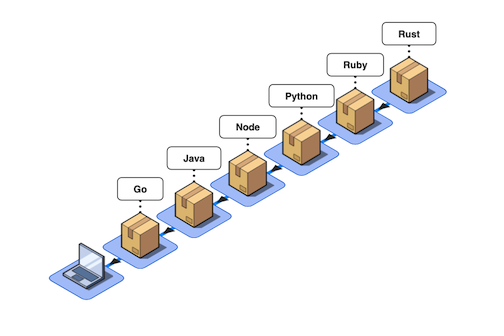
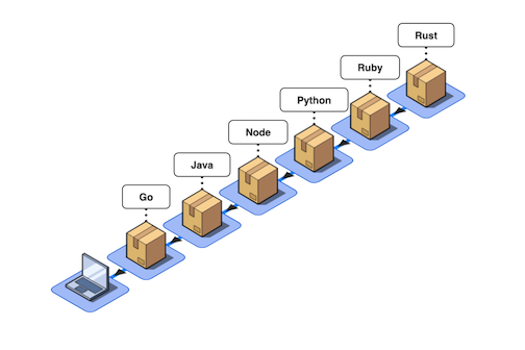
updated image alignment

diff --git a/README.md b/README.md
@@ -83,7 +83,11 @@
 <!-- ABOUT THE PROJECT -->
 ## About The Project
 
-[![Product Name Screen Shot][product-screenshot]](https://example.com)
+<div align="center">
+  <a href="https://github.com/certifiedcloudarchitect/macos-config">
+    <img src="images/screenshot.png" alt="macos-config" width="525" height="350">
+  </a>
+</div>
 
 This project was developed inorder to help expedite the provisioning of development tools and configurations.
 
